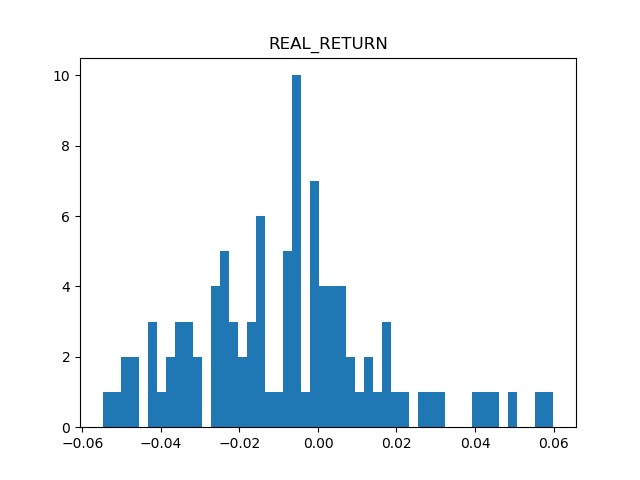
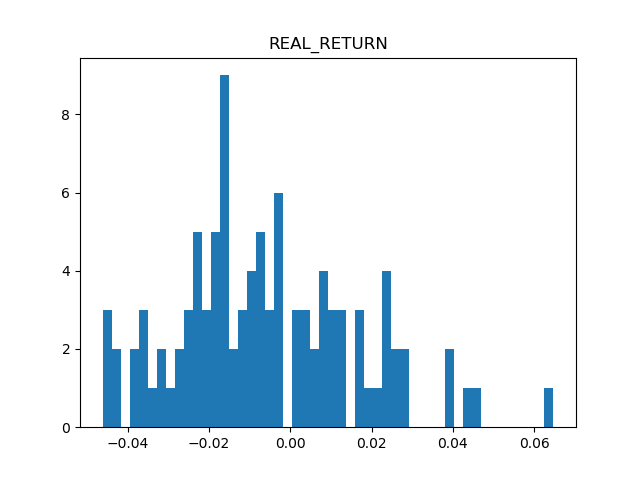
Fixed date plot issue

diff --git a/randomizing.py b/randomizing.py
@@ -33,6 +33,15 @@ def plot_bundled(list_dict):
     for each in list_dict:
         for key in each.keys():
             joined_params[key].append(each[key])
+    for k in joined_params.keys():
+        fig, ax = plt.subplots()
+        if 'BIRTH' in k:
+            ax.xaxis.set_major_formatter(mdates.DateFormatter('%Y'))
+        ax.hist(joined_params[k], bins=50)
+        ax.set_title(k)
+        plt.savefig('params_variation/{}.png'.format(k))
+        plt.savefig('params_variation/{}.pdf'.format(k), format='pdf', transparent=True)
+        # plt.show()
     fig, axs = plt.subplots(5, 3, squeeze=False, figsize=(20, 15))
     plt.locator_params(nbins=3)
     for i, ks in enumerate(joined_params.keys()):
@@ -40,22 +49,9 @@ def plot_bundled(list_dict):
         axs[i % 5, i % 3].set_title(ks, fontsize=7)
         if 'BIRTH' in ks:
             axs[i % 5, i % 3].xaxis.set_major_formatter(mdates.DateFormatter('%Y'))
-    fig.savefig('params_variation/{}.png'.format('Parameters variation'))
-    fig.savefig('params_variation/{}.pdf'.format('Parameters variation'), format='pdf', transparent=True)
+    plt.savefig('params_variation/{}.png'.format('Parameters variation'))
+    plt.savefig('params_variation/{}.pdf'.format('Parameters variation'), format='pdf', transparent=True)
     plt.show()
-
-
-def plot_params(list_dict):
-    joined_params = defaultdict(list)
-    for each in list_dict:
-        for key in each.keys():
-            joined_params[key].append(each[key])
-    for k in joined_params.keys():
-        plt.hist(joined_params[k], bins=50)
-        plt.title(k)
-        plt.savefig('params_variation/{}.png'.format(k))
-        plt.savefig('params_variation/{}.pdf'.format(k), format='pdf', transparent=True)
-        # plt.show()
 
 
 def plot_hist(out):
@@ -90,7 +86,6 @@ def plot_hist(out):
 def main(size):
     register_matplotlib_converters()
     l0 = creating_params(size)
-    plot_params(l0)
     plot_bundled(l0)
     out = generalization.runs(l0)
     print(out)
@@ -102,5 +97,5 @@ def main(size):
 
 
 if __name__ == '__main__':
-    s = 10000
+    s = 100
     o = main(s)
